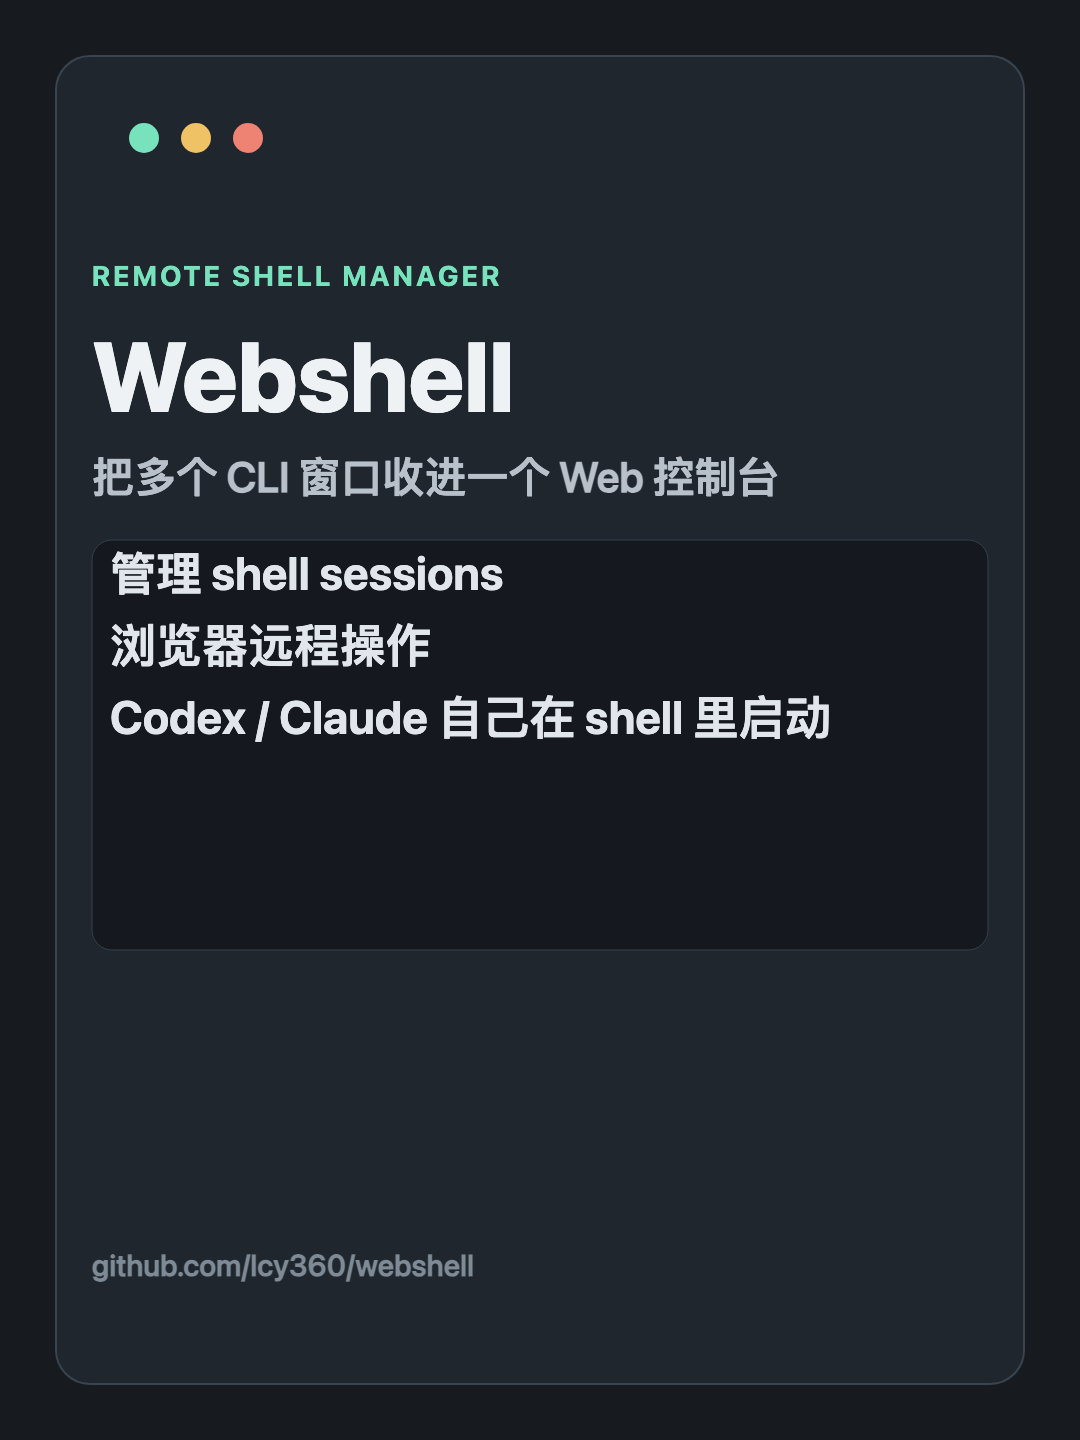
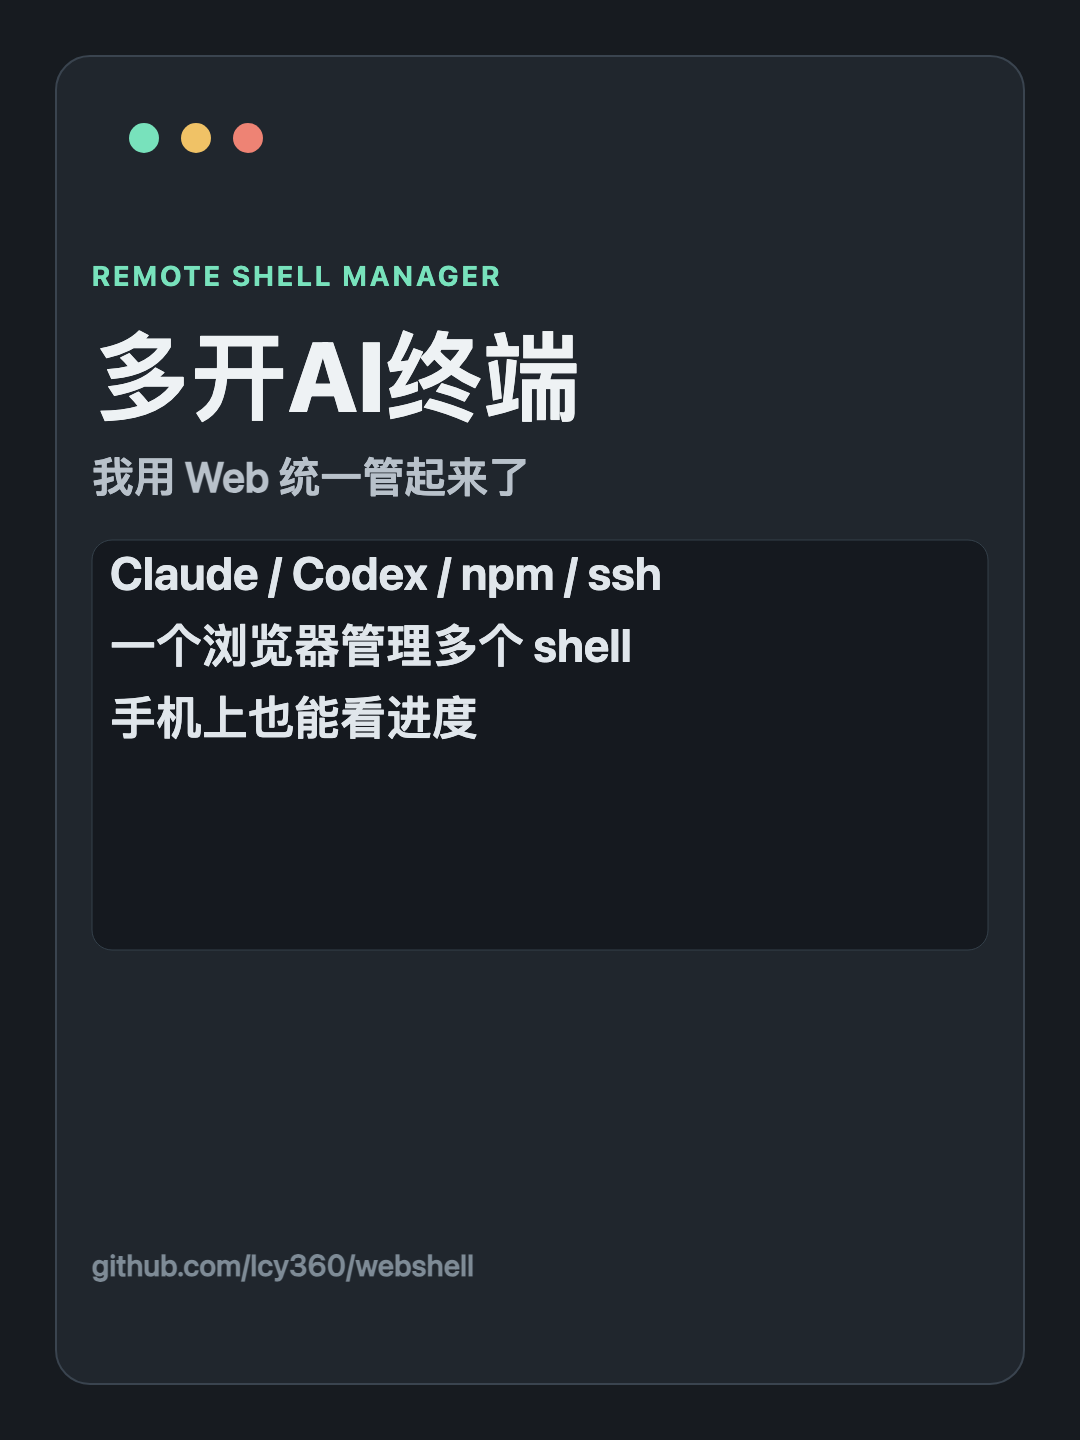
Refine Xiaohongshu launch copy

Changed region(s): [[0.0917, 0.375, 0.7639, 0.5312], [0.0917, 0.2188, 0.7333, 0.3438]]

diff --git a/marketing/xiaohongshu/note.md b/marketing/xiaohongshu/note.md
@@ -1,38 +1,38 @@
 # 标题
 
-多个 CLI 窗口，一个 Web 控制台
+多开AI终端，我用Web统一管
 
 # 正文
 
-最近同时用 Codex CLI、Claude CLI 和普通 shell 做多个项目，最痛的不是写代码，而是窗口太多：
+最近 vibe coding 最大的阻力，不是 AI 不会写，而是我自己找不到窗口了。
 
-哪个窗口对应哪个项目？
-哪个 session 还活着？
-切换回来为什么黑屏？
-手机上临时看一下进度怎么办？
+一个终端跑 Claude Code，一个终端跑 Codex，一个终端跑 npm dev，再开几个 shell 看日志、改配置。看起来像在并行开发，实际是在疯狂切窗口。
 
-所以做了一个小工具：Webshell。
+所以我做了 Webshell：把多个本机 shell 放进浏览器统一管理。
 
-它不是 AI agent 框架，也不封装 Codex / Claude。它只做一件事：
+它不封装 Claude / Codex，也不替你决定工作流。你只是在浏览器里开 shell，然后自己启动：
 
-把本机 shell terminal 放进浏览器里统一管理。
+```bash
+claude
+codex
+npm run dev
+ssh your-server
+```
 
-现在可以：
+我现在最常用的方式：
 
-1. 在 Web 页面新建多个 shell
-2. 每个 shell 独立运行，可以自己启动 codex、claude、npm、ssh
-3. 浏览器里直接输入输出
-4. 手机浏览器也能操作
-5. 支持中文输入和移动端快捷键
-6. 支持 Cloudflare Tunnel 远程访问
-7. 不保存 terminal 输出到磁盘
+1. 一个 shell 让 Claude 写功能
+2. 一个 shell 让 Codex 做 review
+3. 一个 shell 跑测试和服务
+4. 手机上临时看进度，不用远程桌面
 
-这版重点修了几个真实使用痛点：
+这版重点修了几个真痛点：
 
-- 只保留 shell，不内置 AI CLI 选择
-- 手机端加入 ↑、↓、Shift+Tab
-- 优化 session 切换和输出延迟
-- 增加登录、Docker、systemd、launchd、Nginx、Cloudflare 模板
+- session 切换不再黑屏等半天
+- 中文输入和短命令回显更跟手
+- 手机端有 ↑、↓、Shift+Tab 快捷键
+- 支持登录、Docker、systemd、Cloudflare Tunnel
+- terminal 输出不落盘
 
 快速启动：
 
@@ -40,30 +40,18 @@
 git clone https://github.com/lcy360/webshell.git
 cd webshell
 npm install
-WEBSHELL_USERNAME=admin WEBSHELL_PASSWORD='change-me' npm run init-user
+WEBSHELL_PASSWORD='change-me' npm run init-user
 npm start
 ```
 
-打开：
+打开 `http://127.0.0.1:4767`。
 
-```text
-http://127.0.0.1:4767
-```
+如果要外网访问，建议只绑定 localhost，再用 Cloudflare Tunnel 或 Nginx HTTPS 反代。注意：能登录的人就能执行 shell 命令，密码和访问控制一定要认真做。
 
-外网访问建议绑定 localhost，再用 Cloudflare Tunnel 或 Nginx HTTPS 反代。注意：能登录 Webshell 的人，就能用运行服务的系统用户执行命令，所以密码和访问控制一定要认真处理。
+这个工具更像是给 AI CLI 时代补一个“窗口管理层”。不是替代终端，而是让多终端并行时不再那么乱。
 
 GitHub：
 https://github.com/lcy360/webshell
-
-我后面还想继续做：
-
-- session 分组
-- 操作审计
-- 更细的权限控制
-- 多机器管理
-- 项目进度面板
-
-如果你也经常开一堆 CLI 窗口，这个工具应该能缓解一点混乱。
 
 # 标签
 
@@ -76,4 +64,4 @@ Codex
 效率工具
 远程开发
 Web开发
-终端工具
+VibeCoding

diff --git a/marketing/xiaohongshu/research.md b/marketing/xiaohongshu/research.md
@@ -1,0 +1,33 @@
+# Xiaohongshu Content Research
+
+Search date: 2026-05-18
+
+## What Is Performing
+
+Representative posts from Xiaohongshu search:
+
+- `Claude Code团队都在使用的终端软件Ghostty`: 4608 likes. Terminal choice, visual appeal, Claude Code keyword.
+- `直到我给 claude code 换上了这个终端`: 987 likes, 1355 saves. First-person story, strong visual/tool payoff, concrete workflow details.
+- `分享一下我的Claude Code终端方案`: 764 likes. Practical setup framing.
+- `开5个终端让ai干活 速度飞起`: 383 likes, 268 saves, 135 comments. Short result-first post, concrete number, parallel AI workflow.
+- `四个codex窗口`: 304 likes, 393 saves. Very short, shows multi-window Codex workflow.
+- `把Claude从“单线程”变“多线程”：tmux才`: 202 likes, 319 saves. Clear metaphor, parallel workflow.
+- `更快的多Agent并行编程，superconductor`: 140 likes, 250 saves. Longer analysis works when it has external validation and tradeoffs.
+
+## Patterns
+
+- Titles perform better when they state the outcome before the tool.
+- Numbers help: `5个终端`, `4个窗口`, `多线程`.
+- The first paragraph should start from a concrete pain or result, not project background.
+- Popular posts are less like README docs and more like workflow stories.
+- The audience cares about: fewer windows, parallel AI coding, terminal aesthetics, mobile/remote control, and concrete setup commands.
+- Save-worthy posts include enough setup detail to reproduce, but keep the command section short.
+
+## Changes Applied
+
+- Title changed from a generic product description to a result-first workflow title.
+- Opening changed from project explanation to the daily pain of losing terminal windows.
+- Feature list moved after the workflow example.
+- Added a clear AI CLI use case: Claude writes, Codex reviews, npm runs tests.
+- Shortened the setup section and retained the security warning.
+- Updated card copy to match the new narrative.
